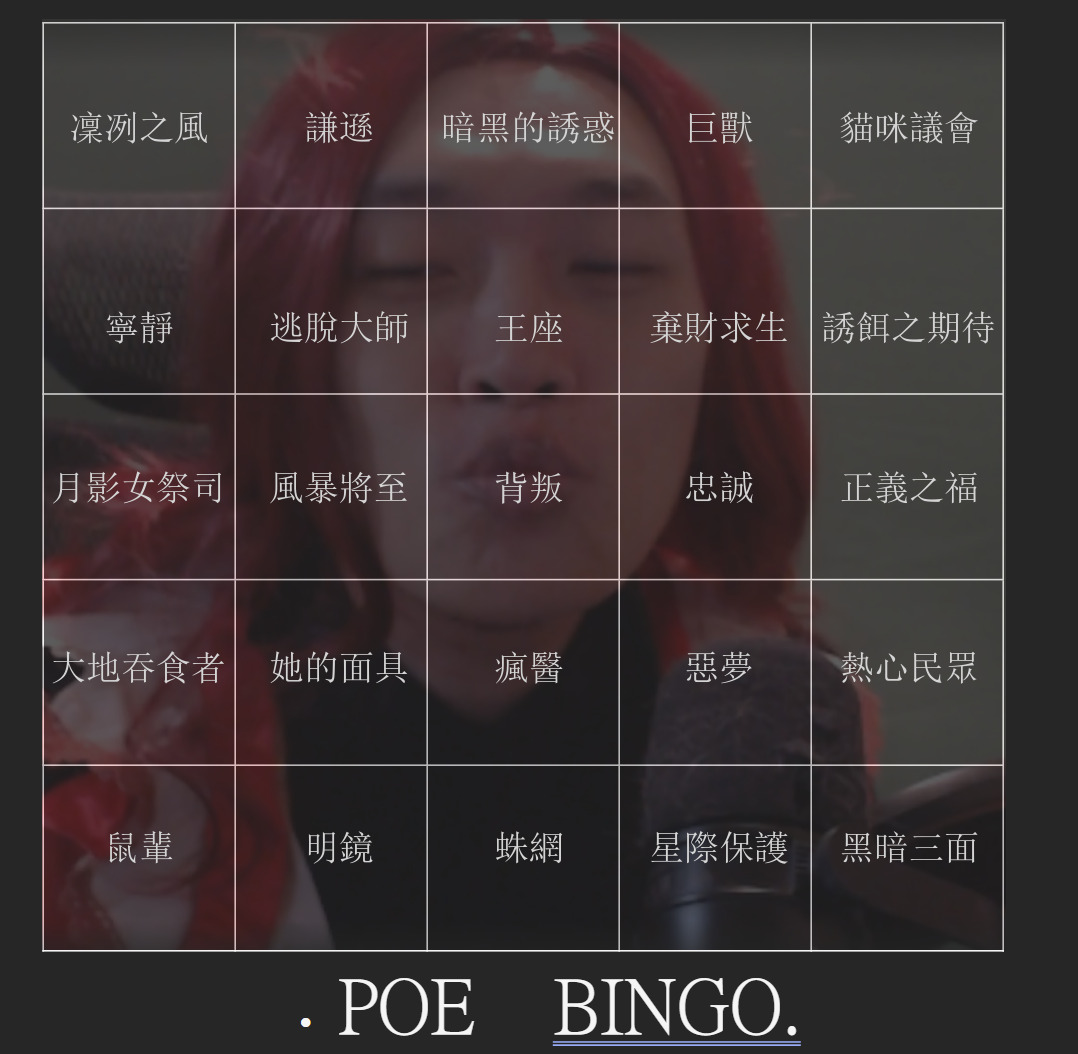
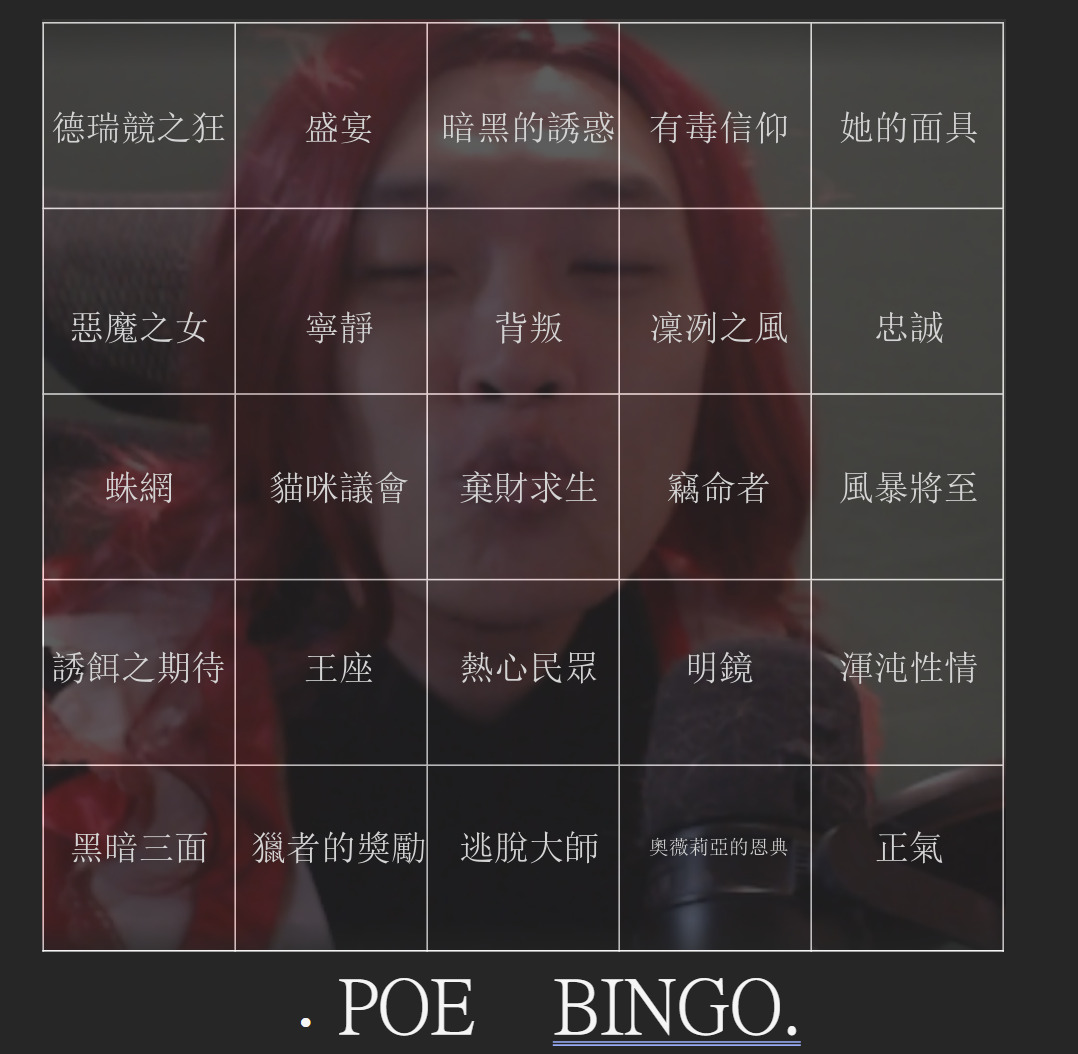
devilcat ver2.0

diff --git a/app/javascript/application.js b/app/javascript/application.js
@@ -2,3 +2,7 @@
 import "@hotwired/turbo-rails"
 import "controllers"
 import * as bootstrap from 'bootstrap';
+
+
+import "chartkick"
+import "Chart.bundle"

diff --git a/app/controllers/estates_controller.rb b/app/controllers/estates_controller.rb
@@ -1,0 +1,71 @@
+class EstatesController < ApplicationController
+  before_action :set_estate, only: %i[ show edit update destroy ]
+
+  # GET /estates or /estates.json
+  def index
+    @estates = Estate.all.order(created_at: :desc)
+  end
+
+  # GET /estates/1 or /estates/1.json
+  def show
+    redirect_to estates_path
+  end
+
+  # GET /estates/new
+  def new
+    @estate = Estate.new
+  end
+
+  # GET /estates/1/edit
+  def edit
+  end
+
+  # POST /estates or /estates.json
+  def create
+    @estate = Estate.new(estate_params)
+
+    respond_to do |format|
+      if @estate.save
+        format.html { redirect_to @estate, notice: "Estate was successfully created." }
+        format.json { render :show, status: :created, location: @estate }
+      else
+        format.html { render :new, status: :unprocessable_entity }
+        format.json { render json: @estate.errors, status: :unprocessable_entity }
+      end
+    end
+  end
+
+  # PATCH/PUT /estates/1 or /estates/1.json
+  def update
+    respond_to do |format|
+      if @estate.update(estate_params)
+        format.html { redirect_to @estate, notice: "Estate was successfully updated." }
+        format.json { render :show, status: :ok, location: @estate }
+      else
+        format.html { render :edit, status: :unprocessable_entity }
+        format.json { render json: @estate.errors, status: :unprocessable_entity }
+      end
+    end
+  end
+
+  # DELETE /estates/1 or /estates/1.json
+  def destroy
+    @estate.destroy!
+
+    respond_to do |format|
+      format.html { redirect_to estates_path, status: :see_other, notice: "Estate was successfully destroyed." }
+      format.json { head :no_content }
+    end
+  end
+
+  private
+    # Use callbacks to share common setup or constraints between actions.
+    def set_estate
+      @estate = Estate.find(params.expect(:id))
+    end
+
+    # Only allow a list of trusted parameters through.
+    def estate_params
+      params.fetch(:estate, {}).permit(:role_id, :value, :custom_timestamp)
+    end
+end

diff --git a/test/controllers/estates_controller_test.rb b/test/controllers/estates_controller_test.rb
@@ -1,0 +1,48 @@
+require "test_helper"
+
+class EstatesControllerTest < ActionDispatch::IntegrationTest
+  setup do
+    @estate = estates(:one)
+  end
+
+  test "should get index" do
+    get estates_url
+    assert_response :success
+  end
+
+  test "should get new" do
+    get new_estate_url
+    assert_response :success
+  end
+
+  test "should create estate" do
+    assert_difference("Estate.count") do
+      post estates_url, params: { estate: {} }
+    end
+
+    assert_redirected_to estate_url(Estate.last)
+  end
+
+  test "should show estate" do
+    get estate_url(@estate)
+    assert_response :success
+  end
+
+  test "should get edit" do
+    get edit_estate_url(@estate)
+    assert_response :success
+  end
+
+  test "should update estate" do
+    patch estate_url(@estate), params: { estate: {} }
+    assert_redirected_to estate_url(@estate)
+  end
+
+  test "should destroy estate" do
+    assert_difference("Estate.count", -1) do
+      delete estate_url(@estate)
+    end
+
+    assert_redirected_to estates_url
+  end
+end

diff --git a/db/schema.rb b/db/schema.rb
@@ -1,0 +1,21 @@
+# This file is auto-generated from the current state of the database. Instead
+# of editing this file, please use the migrations feature of Active Record to
+# incrementally modify your database, and then regenerate this schema definition.
+#
+# This file is the source Rails uses to define your schema when running `bin/rails
+# db:schema:load`. When creating a new database, `bin/rails db:schema:load` tends to
+# be faster and is potentially less error prone than running all of your
+# migrations from scratch. Old migrations may fail to apply correctly if those
+# migrations use external dependencies or application code.
+#
+# It's strongly recommended that you check this file into your version control system.
+
+ActiveRecord::Schema[8.0].define(version: 2025_10_29_180251) do
+  create_table "estates", force: :cascade do |t|
+    t.datetime "created_at", null: false
+    t.datetime "updated_at", null: false
+    t.integer "role_id"
+    t.float "value"
+    t.datetime "custom_timestamp"
+  end
+end

diff --git a/test/system/estates_test.rb b/test/system/estates_test.rb
@@ -1,0 +1,39 @@
+require "application_system_test_case"
+
+class EstatesTest < ApplicationSystemTestCase
+  setup do
+    @estate = estates(:one)
+  end
+
+  test "visiting the index" do
+    visit estates_url
+    assert_selector "h1", text: "Estates"
+  end
+
+  test "should create estate" do
+    visit estates_url
+    click_on "New estate"
+
+    click_on "Create Estate"
+
+    assert_text "Estate was successfully created"
+    click_on "Back"
+  end
+
+  test "should update Estate" do
+    visit estate_url(@estate)
+    click_on "Edit this estate", match: :first
+
+    click_on "Update Estate"
+
+    assert_text "Estate was successfully updated"
+    click_on "Back"
+  end
+
+  test "should destroy Estate" do
+    visit estate_url(@estate)
+    click_on "Destroy this estate", match: :first
+
+    assert_text "Estate was successfully destroyed"
+  end
+end

diff --git a/config/importmap.rb b/config/importmap.rb
@@ -11,4 +11,7 @@ pin "@popperjs/core", to: "https://unpkg.com/@popperjs/core@2.11.6/dist/esm/inde
 
 
 # pin "@popperjs/core", to: "popper.js", preload: true
-# pin "bootstrap", to: "bootstrap.min.js", preload: true
+# pin "bootstrap", to: "bootstrap.min.js", preload: truepin "echarts", to: "echarts.min.js"
+
+pin "chartkick", to: "chartkick.js"
+pin "Chart.bundle", to: "Chart.bundle.js"

diff --git a/app/controllers/home_controller.rb b/app/controllers/home_controller.rb
@@ -1,4 +1,11 @@
 class HomeController < ApplicationController
   def index
+
+    @results = {}
+
+    Estate.order(custom_timestamp: :asc).find_each do |estate|
+      @results.merge!( [ estate.role_id, estate.custom_timestamp.strftime('%Y-%m-%d %H-%M')] => estate.value)
+    end
+
   end
 end

diff --git a/app/models/estate.rb b/app/models/estate.rb
@@ -1,0 +1,10 @@
+class Estate < ApplicationRecord
+	enum :role_id, { "惡魔貓": 1, "老P": 2 }
+
+	validates :role_id, presence: true
+	validates :role_id, exclusion: { in: %w(1 2),
+    message: "%{value} is not a valid role" }
+	validates :value, presence: true
+
+
+end

diff --git a/config/application.rb b/config/application.rb
@@ -22,6 +22,8 @@ module Devilcat
     # in config/environments, which are processed later.
     #
     # config.time_zone = "Central Time (US & Canada)"
+
+    config.time_zone = "Taipei"
     # config.eager_load_paths << Rails.root.join("extras")
   end
 end

diff --git a/db/migrate/20251029125047_add_role_id_and_value.rb b/db/migrate/20251029125047_add_role_id_and_value.rb
@@ -1,0 +1,6 @@
+class AddRoleIdAndValue < ActiveRecord::Migration[8.0]
+  def change
+     add_column :estates, :role_id, :integer
+     add_column :estates, :value, :float
+  end
+end

diff --git a/db/migrate/20251029123317_create_estates.rb b/db/migrate/20251029123317_create_estates.rb
@@ -1,0 +1,7 @@
+class CreateEstates < ActiveRecord::Migration[8.0]
+  def change
+    create_table :estates do |t|
+      t.timestamps
+    end
+  end
+end

diff --git a/db/migrate/20251029180251_add_custom_timestamp.rb b/db/migrate/20251029180251_add_custom_timestamp.rb
@@ -1,0 +1,5 @@
+class AddCustomTimestamp < ActiveRecord::Migration[8.0]
+  def change
+    add_column :estates, :custom_timestamp, :timestamp
+  end
+end
